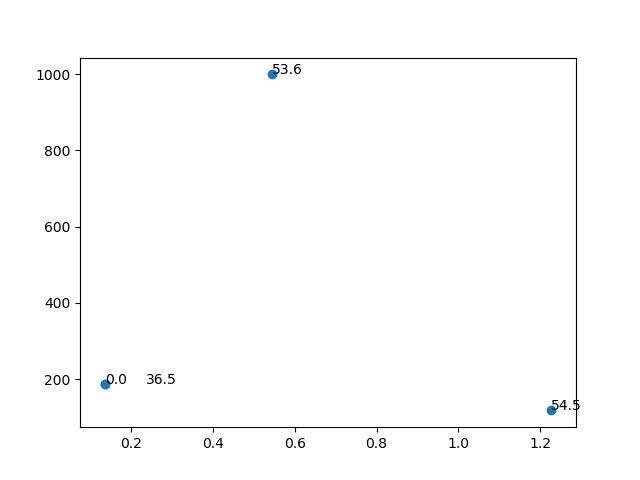
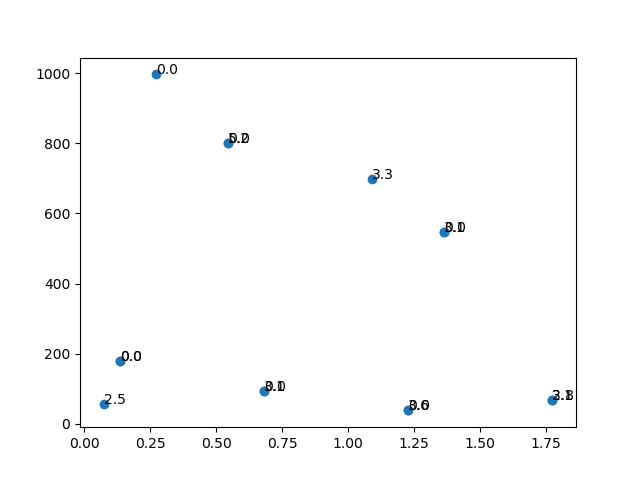
Updated epGreedyBumpsTest.py labels

diff --git a/hklgen/examples/sxtal/epGreedy/epGreedyBumpsTest.py b/hklgen/examples/sxtal/epGreedy/epGreedyBumpsTest.py
@@ -44,12 +44,12 @@ def setInitParams():
     #Set a range on the x value of the first atom in the model
     m.atomListModel.atomModels[0].z.value = 0.3 #zApprox
     m.atomListModel.atomModels[0].z.range(0,0.5)
-#    m.atomListModel.atomModels[0].B.range(0,5)
-#    m.atomListModel.atomModels[1].B.range(0,5)
-#    m.atomListModel.atomModels[2].B.range(0,5)
-#    m.atomListModel.atomModels[3].B.range(0,5)
-#    m.atomListModel.atomModels[4].B.range(0,5)
-#    m.atomListModel.atomModels[5].B.range(0,5)
+    m.atomListModel.atomModels[0].B.range(0,5)
+    m.atomListModel.atomModels[1].B.range(0,5)
+    m.atomListModel.atomModels[2].B.range(0,5)
+    m.atomListModel.atomModels[3].B.range(0,5)
+    m.atomListModel.atomModels[4].B.range(0,5)
+    m.atomListModel.atomModels[5].B.range(0,5)
     return m
 
 def fit(model):
@@ -213,7 +213,7 @@ def test_algorithm(agent, actions, num_sims, horizon, numParameters):
 #	    file2.close()
 
 	#Observed sfs2 values (
-	x1 = sfs2[0:4]
+	x1 = sfs2[0:horizon]
 	y = model.theory() #H.calcstructfact()
 	print(y)
 	print(x1)
@@ -237,7 +237,7 @@ def test_algorithm(agent, actions, num_sims, horizon, numParameters):
 	ax.scatter(qSquared, y)
 	
 	for i, txt in enumerate(labels):
-		ax.annotate(txt, (qSquared[i], y[i]), xytext = (qSquared[i]+0.1*np.floor((i+1)/4), y[i]))
+		ax.annotate(txt, (qSquared[i], y[i]), xytext = (qSquared[i], y[i]))
 
 
 #	plt.scatter(qSquared,y)
@@ -254,5 +254,5 @@ def test_algorithm(agent, actions, num_sims, horizon, numParameters):
 
 agent = EpsilonGreedy(1, np.zeros(len(refList)), np.ones(len(refList)))
 #test_algorithm(agent, refList, 1, len(refList), 1)
-test_algorithm(agent, refList, 1, 4, 1)
+test_algorithm(agent, refList, 1, 15, 7)
 print("done")
